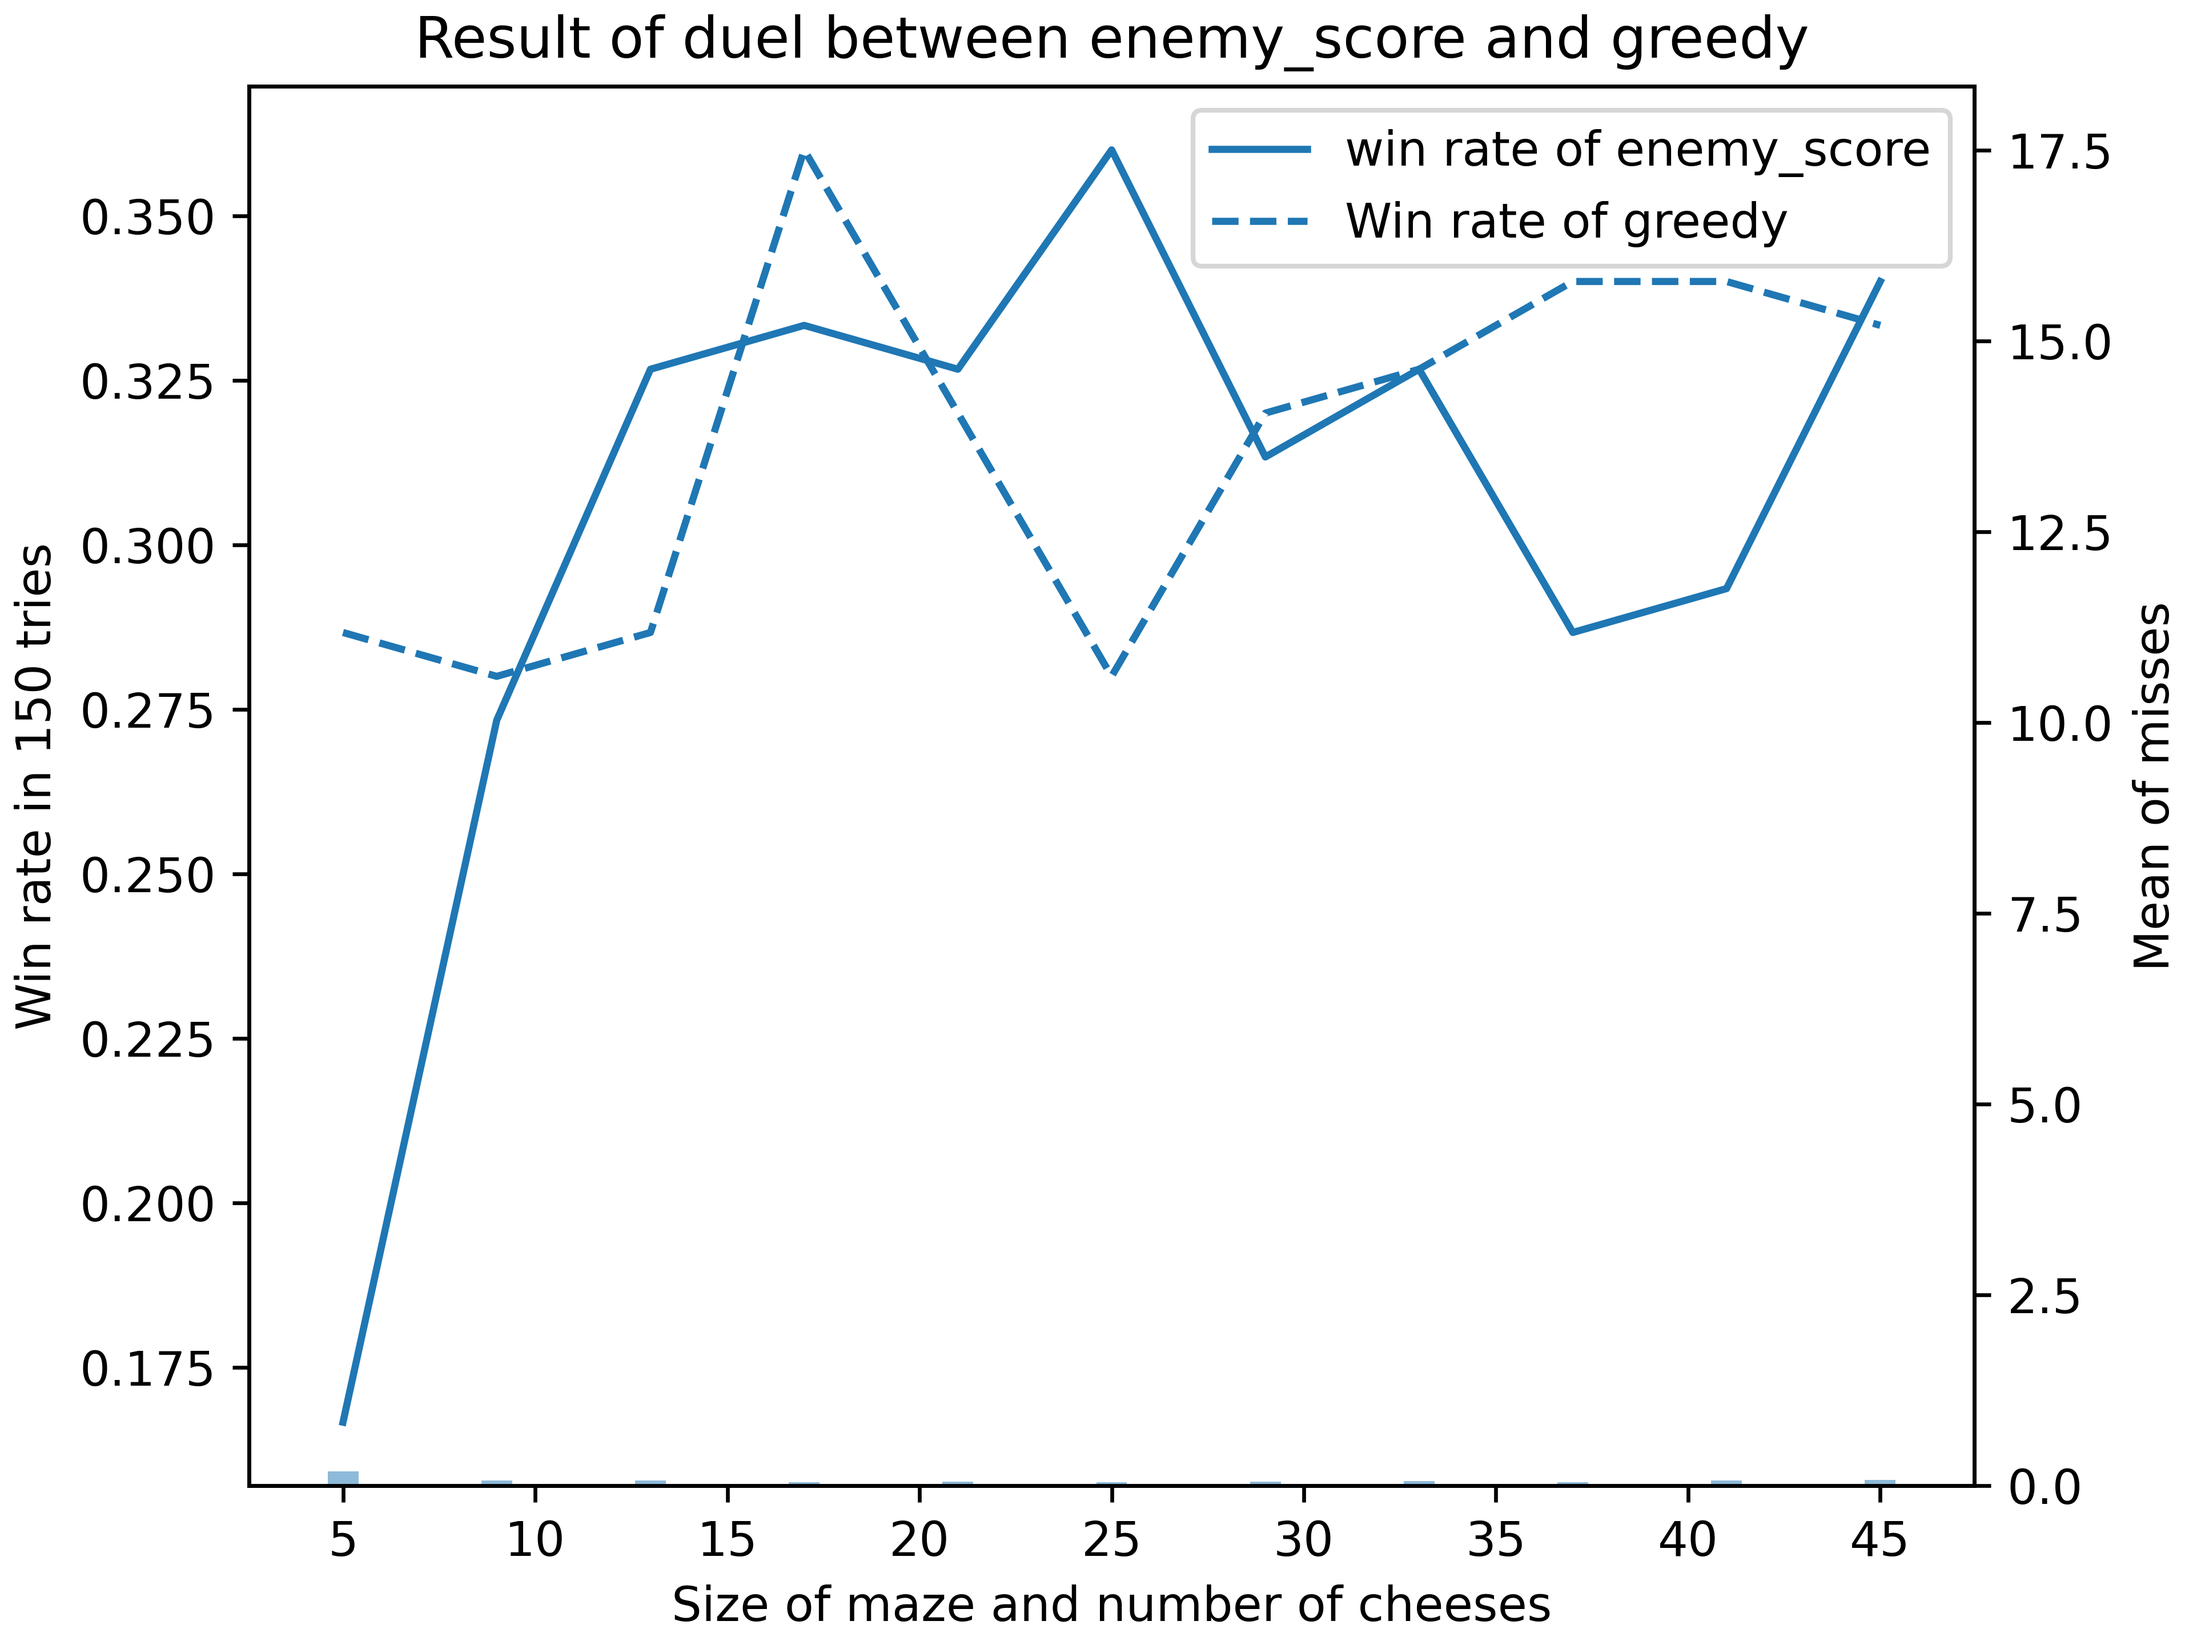
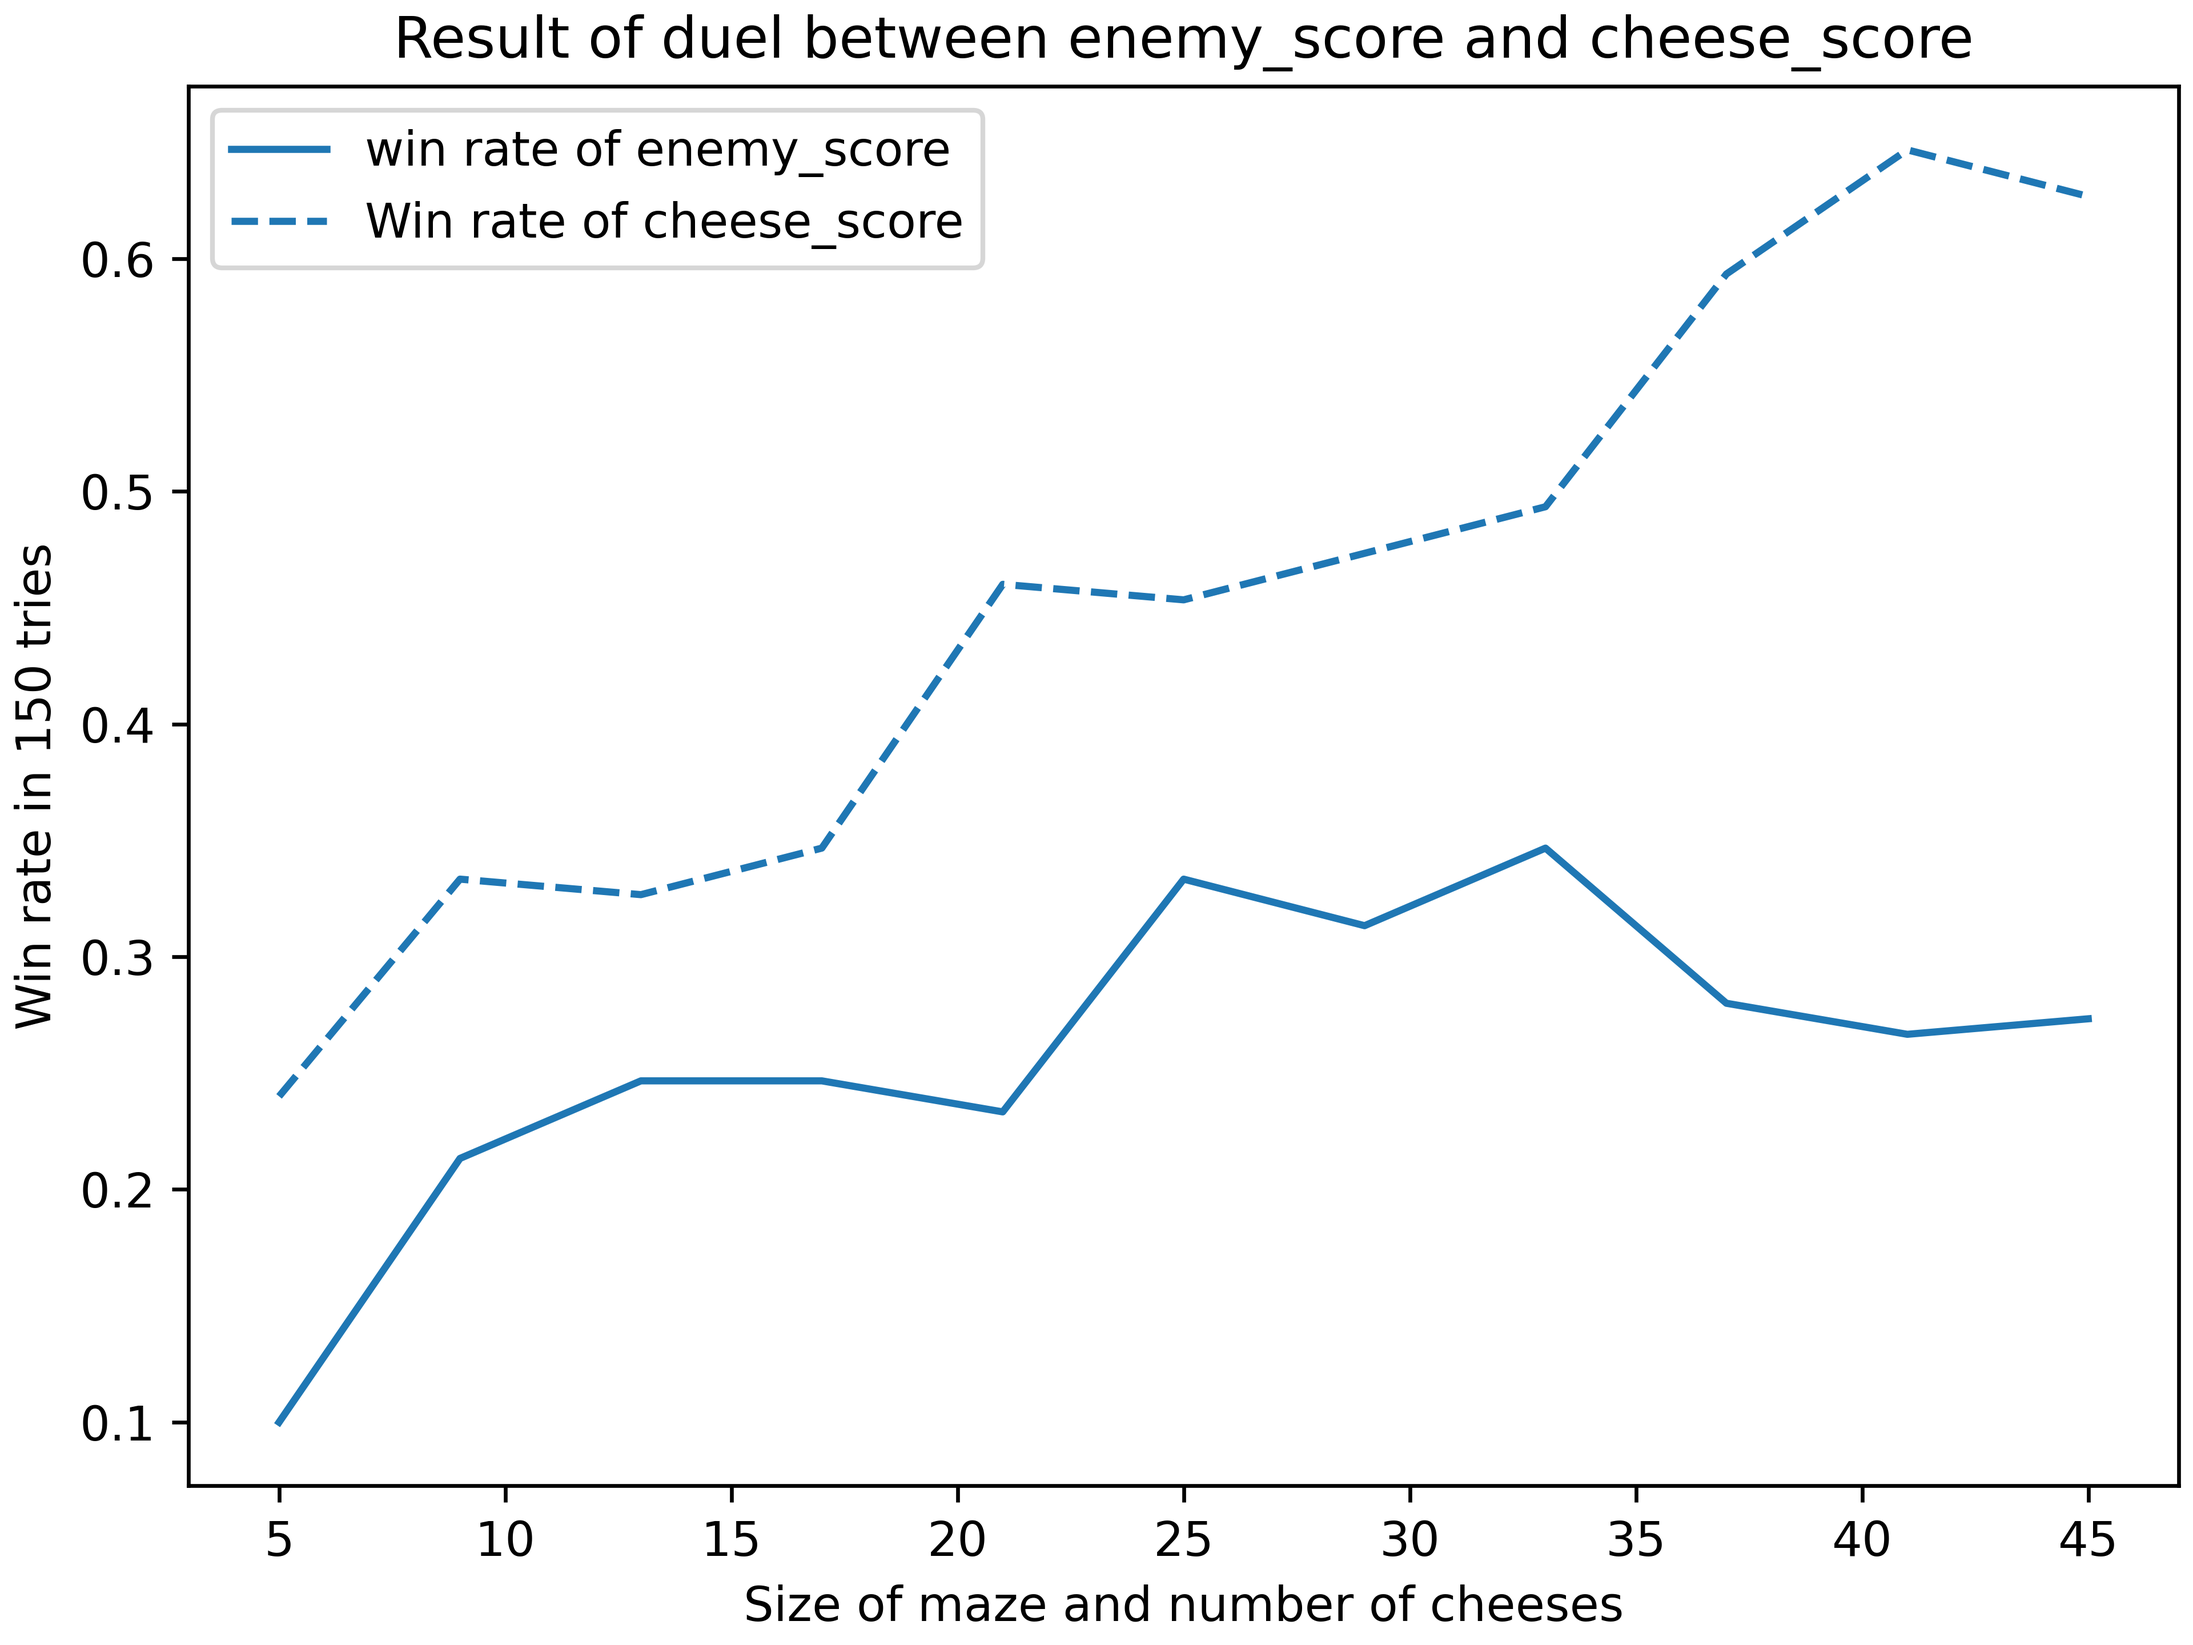
publishing

diff --git a/graph.py b/graph.py
@@ -10,13 +10,13 @@ ai_list = [
     # "etape8_1",
     # "etape8",
     "etape8_enemyScore_scraped",
-    "etape8_2",
-    "etape8_3"
+    # "etape8_2",
+    # "etape8_3"
 ]
 
 save_path = "PyRat-1-master/saves/"
 # rat_path = "PyRat-1-master/AIs/etape8_1.py"
-python_path = "PyRat-1-master/AIs/etape6_1.py"
+python_path = "PyRat-1-master/AIs/etape8_1.py"
 
 n_test = 150
 n_min = 5
@@ -97,18 +97,19 @@ def draw():
     datas, max_miss = read_datas()
     for i in range(0, len(datas), 4):
         # i = 16
+        datas[i] = "enemy_score"
         f, ax1 = plt.subplots(constrained_layout=True)
-        ax2 = ax1.twinx()
+        # ax2 = ax1.twinx()
         t, = ax1.plot(x_list, datas[i + 1], label=f"win rate of {datas[i]}")
         cl = t.get_color()
-        ax1.plot(x_list, datas[i + 2], color=cl, linestyle="--", label="Win rate of greedy")
-        ax2.bar(x_list, datas[i + 3], color=cl, alpha=0.5)
-        ax2.set_ylim(0, max_miss * 1.10)
+        ax1.plot(x_list, datas[i + 2], color=cl, linestyle="--", label="Win rate of cheese_score")
+        # ax2.bar(x_list, datas[i + 3], color=cl, alpha=0.5)
+        # ax2.set_ylim(0, max_miss * 1.10)
 
         ax1.set_xlabel("Size of maze and number of cheeses")
         ax1.set_ylabel(f"Win rate in {n_test} tries")
-        ax2.set_ylabel("Mean of misses")
-        plt.title(f"Result of duel between {datas[i]} and greedy")
+        # ax2.set_ylabel("Mean of misses")
+        plt.title(f"Result of duel between {datas[i]} and cheese_score")
         ax1.legend()
         plt.savefig(f"./result_{datas[i]}.png", dpi=600)
         # return
@@ -136,7 +137,7 @@ def main():
     draw()
 
 
-read_datas()
-draw()
-# clear_saves()
-# main()
+# read_datas()
+# draw()
+clear_saves()
+main()
